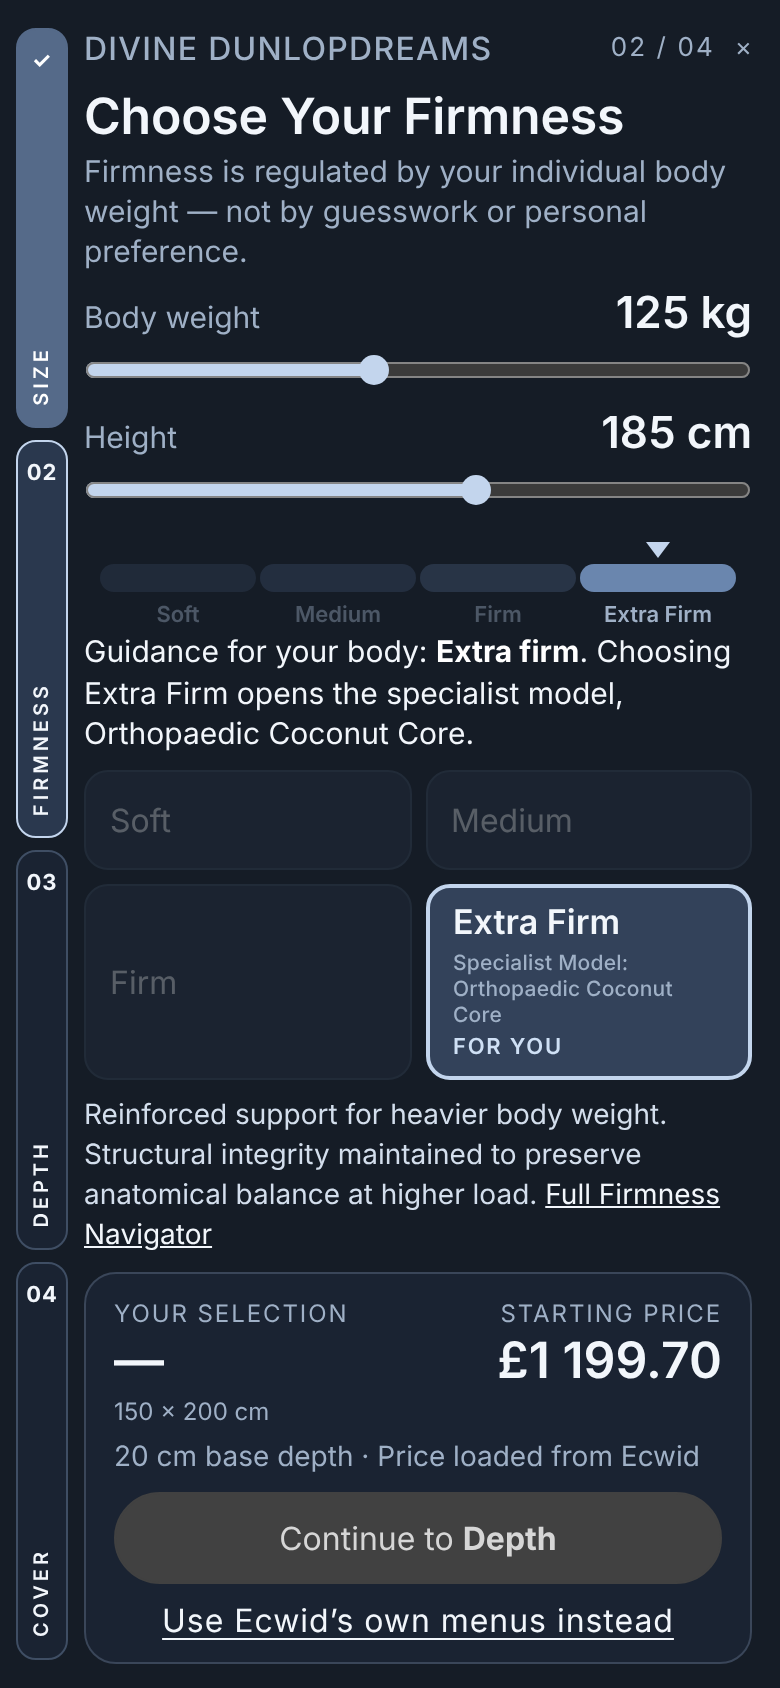
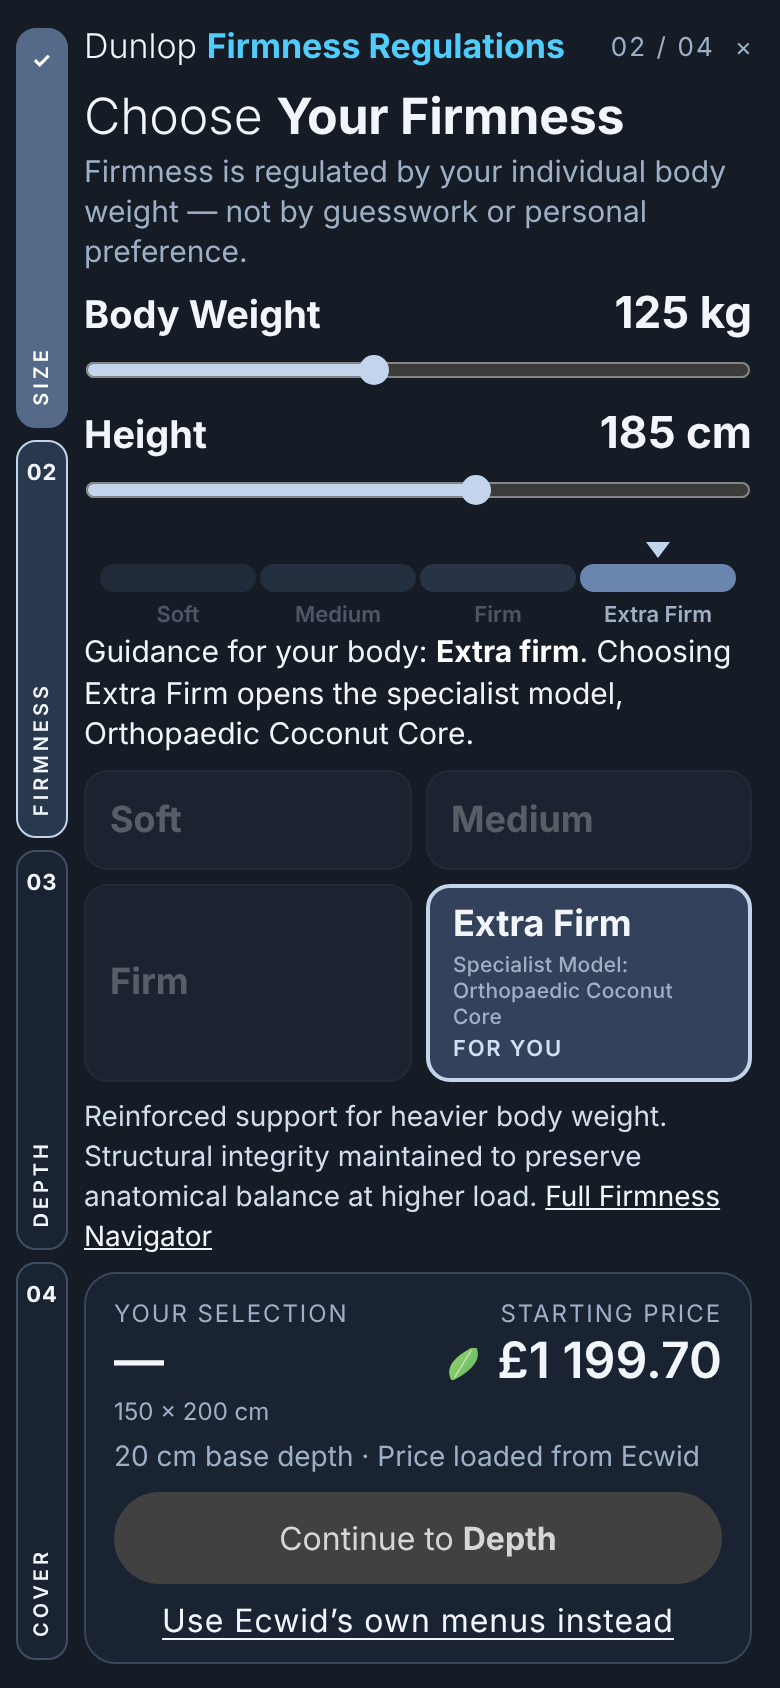
Firmness step typography: Dunlop Firmness Regulations line, bold labels, leaf by price
Claude-Session: https://claude.ai/code/session_012wczzzviEvo3aPrXDTfwk1

diff --git a/experience-tv/docs/mobile/premium/preview/graphite.html b/experience-tv/docs/mobile/premium/preview/graphite.html
@@ -79,6 +79,17 @@
 @media (max-height: 690px) { .gx-sub { display: none; } .gx-chip { height: 28px; font-size: 14px; } .gx-cov { height: 56px; } .gx-mat { max-height: 60px; } .gx-card { min-height: 38px; font-size: 15px; }  .gx-scale { height: 30px; } .gx-card { padding: 6px 10px; } .gx-card .sp-l { font-size: 9.5px; margin-top: 2px; } .gx-guide { margin: 0 0 4px; font-size: 13px; } }
 @media (prefers-reduced-motion: reduce) { .gx * { transition: none !important; } }
 
+/* firmness module: the bolding scenario from the owner's mock-up (this step only) */
+.gx-top b.fr { text-transform: none; letter-spacing: 0; font-size: 17px; font-weight: 300; color: var(--ink); white-space: nowrap; }
+.gx-top b.fr strong { font-weight: 700; color: #50CDFD; }
+.gx h2.fw { font-weight: 300; } .gx h2.fw b { font-weight: 700; }
+.gx-fg .r label { font-size: 19px; font-weight: 700; color: var(--ink); }
+.gx-fg .r b { font-weight: 700; }
+.gx-2 .gx-card { font-weight: 700; font-size: 18px; }
+.gx-sel .lf { width: 22px; height: 16px; vertical-align: -1px; margin-right: 6px; }
+@media (max-height: 780px) { .gx-fg .r label { font-size: 17px; } .gx-2 .gx-card { font-size: 16.5px; } .gx-top b.fr { font-size: 16px; } }
+@media (max-height: 690px) { .gx-fg .r label { font-size: 15.5px; } .gx-2 .gx-card { font-size: 15px; } .gx-top b.fr { font-size: 14.5px; } .gx-sel .lf { width: 18px; height: 13px; } }
+
 /* PREVIEW styles, not deployed. Tokens are the description's own (palette, radii, Chillax). No backdrop-filter, no blur,
    no animation library; transitions are transform/opacity/max-height only and stop under prefers-reduced-motion. */
 :root { --bg: #DDEBF1; --lift: #EDF5F7; --card: #F6FAFB; --deep: #C7D5D9; --ink: #364849; --mid: #4F6365; --soft: #797572; --acc: #759397; --accm: #5E7A7D; --pale: #BFD0D5; --r: 12px; --rl: 18px; --f: 'Chillax', 'Helvetica Neue', Arial, sans-serif; }
@@ -5068,7 +5079,7 @@ var m=document.getElementById('desc-slot'),dsc=document.getElementById('productD
   }
   function bodyFirm() {
     var w0 = S.weight == null ? 70 : S.weight, h0 = S.height == null ? 170 : S.height;
-    return '<div class="gx-fg"><div class="r"><label for="gw">Body weight</label><b id="gwv">' + (S.weight == null ? '—' : S.weight + ' kg') + '</b></div><input id="gw" type="range" min="' + core.limits.weight[0] + '" max="' + core.limits.weight[1] + '" value="' + w0 + '" data-k="weight" aria-label="Body weight in kilograms">' +
+    return '<div class="gx-fg"><div class="r"><label for="gw">Body Weight</label><b id="gwv">' + (S.weight == null ? '—' : S.weight + ' kg') + '</b></div><input id="gw" type="range" min="' + core.limits.weight[0] + '" max="' + core.limits.weight[1] + '" value="' + w0 + '" data-k="weight" aria-label="Body weight in kilograms">' +
       '<div class="r"><label for="gh">Height</label><b id="ghv">' + (S.height == null ? '—' : S.height + ' cm') + '</b></div><input id="gh" type="range" min="' + core.limits.height[0] + '" max="' + core.limits.height[1] + '" value="' + h0 + '" data-k="height" aria-label="Height in centimetres"></div><div id="gdyn">' + firmDyn() + '</div>';
   }
   function bodyDepth() {
@@ -5098,7 +5109,7 @@ var m=document.getElementById('desc-slot'),dsc=document.getElementById('productD
     return h;
   }
   var BODY = { size: bodySize, firmness: bodyFirm, depth: bodyDepth, cover: bodyCover, review: bodyReview };
-  var TITLE = { size: 'Choose Your Size', firmness: 'Choose Your Firmness', depth: 'Choose Your Depth', cover: 'Choose Your Cover', review: 'Review Your <b>Order</b>' };
+  var TITLE = { size: 'Choose Your Size', firmness: 'Choose <b>Your Firmness</b>', depth: 'Choose Your Depth', cover: 'Choose Your Cover', review: 'Review Your <b>Order</b>' };
   function sub() {
     if (S.step === 'size') return (S.sizeCount || 22) + ' dimensions · Custom made to order';
     if (S.step === 'firmness') return first(D.firmness.sub);
@@ -5111,6 +5122,8 @@ var m=document.getElementById('desc-slot'),dsc=document.getElementById('productD
   function rail() {
     return '<nav class="gx-rail" aria-label="Steps">' + STEPS.map(function (s, i) { var dn = chosen(s), cur = S.step === s; return '<button class="pil' + (cur ? ' cur' : '') + (dn ? ' done' : '') + '" data-act="go" data-step="' + s + '" aria-current="' + (cur ? 'step' : 'false') + '" aria-label="' + NAMES[s] + (dn ? ', chosen' : '') + '"><i>' + (dn ? '✓' : '0' + (i + 1)) + '</i><span>' + NAMES[s] + '</span></button>'; }).join('') + '</nav>';
   }
+  /* the header's leaf (divine-hero .ddh__leaf: fresh green, two opposite round corners, one pale vein), as a small static mark */
+  var LEAF = '<svg class="lf" viewBox="0 0 28 20" aria-hidden="true"><defs><linearGradient id="lfg" x1="0" y1="0" x2="1" y2="1"><stop offset="0" stop-color="#9BD26B"/><stop offset="1" stop-color="#63B963"/></linearGradient></defs><g transform="rotate(-28 14 10)"><path d="M2 16C2 7 8 3 26 3C26 12 19 16 2 16Z" fill="url(#lfg)"/><path d="M5 14.5L22 4.6" stroke="#fff" stroke-opacity=".5" stroke-width="1" stroke-linecap="round"/></g></svg>';
   function dock() {
     var n = S.native, st = S.step, rv = st === 'review', cur = rv ? null : chosen(st), size = chosen('size'), only = startingOnly();
     var others = STEPS.filter(function (r) { return r !== st && chosen(r); }).map(label).join(' · ');
@@ -5121,7 +5134,7 @@ var m=document.getElementById('desc-slot'),dsc=document.getElementById('productD
     var cap = only ? '20 cm base depth · Price loaded from Ecwid' : 'Price loaded from Ecwid';
     var nxt = { size: 'Continue to <b>Firmness</b>', firmness: 'Continue to <b>Depth</b>', depth: 'Continue to <b>Cover</b>', cover: 'Review Your <b>Order</b>', review: done() === 4 ? 'Go to <b>Add to Bag</b>' : 'See <b>Ecwid’s options</b>' }[st];
     var dis = !rv && !cur;
-    return '<section class="gx-dock" aria-label="Your selection"><div class="gx-sel"><div><small>' + (rv ? 'Your configuration' : 'Your selection') + '</small><b>' + esc(left) + '</b>' + (others ? '<em>' + esc(others) + '</em>' : '') + '</div><div class="gx-r' + (S.upd ? ' upd' : '') + '"><small>' + pl + '</small><b>' + esc(pv) + '</b></div></div><p class="gx-cap">' + esc(cap) + '</p><button class="gx-btn" data-act="next" aria-disabled="' + dis + '">' + nxt + '</button><button class="gx-alt" data-act="native">Use Ecwid’s own menus instead</button></section>';
+    return '<section class="gx-dock" aria-label="Your selection"><div class="gx-sel"><div><small>' + (rv ? 'Your configuration' : 'Your selection') + '</small><b>' + esc(left) + '</b>' + (others ? '<em>' + esc(others) + '</em>' : '') + '</div><div class="gx-r' + (S.upd ? ' upd' : '') + '"><small>' + pl + '</small><b>' + (st === 'firmness' ? LEAF : '') + esc(pv) + '</b></div></div><p class="gx-cap">' + esc(cap) + '</p><button class="gx-btn" data-act="next" aria-disabled="' + dis + '">' + nxt + '</button><button class="gx-alt" data-act="native">Use Ecwid’s own menus instead</button></section>';
   }
 
   function render() {
@@ -5132,7 +5145,7 @@ var m=document.getElementById('desc-slot'),dsc=document.getElementById('productD
     if (!S.open) { root.innerHTML = ''; root.className = 'cfg'; return; }
     var idx = STEPS.indexOf(S.step), body = d.querySelector('.gx-body'), st = body ? body.scrollTop : 0;
     root.className = 'cfg cfg--gx open';
-    root.innerHTML = '<div class="gx" role="dialog" aria-modal="true" aria-label="Configure your mattress">' + rail() + '<div class="gx-main"><div class="gx-top"><b>Divine DunlopDreams</b><span>' + (S.step === 'review' ? 'Review' : '0' + (idx + 1) + ' / 04') + '<button class="gx-x" data-act="close" aria-label="Close configuration">×</button></span></div><div><h2 tabindex="-1"' + (S.step === 'review' ? ' class="rv"' : '') + '>' + TITLE[S.step] + '</h2><p class="gx-sub">' + esc(sub()) + '</p></div><div class="gx-body">' + BODY[S.step]() + '</div>' + dock() + '</div></div>';
+    root.innerHTML = '<div class="gx" role="dialog" aria-modal="true" aria-label="Configure your mattress">' + rail() + '<div class="gx-main"><div class="gx-top">' + (S.step === 'firmness' ? '<b class="fr">Dunlop <strong>Firmness Regulations</strong></b>' : '<b>Divine DunlopDreams</b>') + '<span>' + (S.step === 'review' ? 'Review' : '0' + (idx + 1) + ' / 04') + '<button class="gx-x" data-act="close" aria-label="Close configuration">×</button></span></div><div><h2 tabindex="-1"' + (S.step === 'review' ? ' class="rv"' : S.step === 'firmness' ? ' class="fw"' : '') + '>' + TITLE[S.step] + '</h2><p class="gx-sub">' + esc(sub()) + '</p></div><div class="gx-body">' + BODY[S.step]() + '</div>' + dock() + '</div></div>';
     var nb = d.querySelector('.gx-body'); if (nb) nb.scrollTop = st;
   }
 

diff --git a/experience-tv/docs/mobile/premium/src/graphite.js b/experience-tv/docs/mobile/premium/src/graphite.js
@@ -73,7 +73,7 @@
   }
   function bodyFirm() {
     var w0 = S.weight == null ? 70 : S.weight, h0 = S.height == null ? 170 : S.height;
-    return '<div class="gx-fg"><div class="r"><label for="gw">Body weight</label><b id="gwv">' + (S.weight == null ? '—' : S.weight + ' kg') + '</b></div><input id="gw" type="range" min="' + core.limits.weight[0] + '" max="' + core.limits.weight[1] + '" value="' + w0 + '" data-k="weight" aria-label="Body weight in kilograms">' +
+    return '<div class="gx-fg"><div class="r"><label for="gw">Body Weight</label><b id="gwv">' + (S.weight == null ? '—' : S.weight + ' kg') + '</b></div><input id="gw" type="range" min="' + core.limits.weight[0] + '" max="' + core.limits.weight[1] + '" value="' + w0 + '" data-k="weight" aria-label="Body weight in kilograms">' +
       '<div class="r"><label for="gh">Height</label><b id="ghv">' + (S.height == null ? '—' : S.height + ' cm') + '</b></div><input id="gh" type="range" min="' + core.limits.height[0] + '" max="' + core.limits.height[1] + '" value="' + h0 + '" data-k="height" aria-label="Height in centimetres"></div><div id="gdyn">' + firmDyn() + '</div>';
   }
   function bodyDepth() {
@@ -103,7 +103,7 @@
     return h;
   }
   var BODY = { size: bodySize, firmness: bodyFirm, depth: bodyDepth, cover: bodyCover, review: bodyReview };
-  var TITLE = { size: 'Choose Your Size', firmness: 'Choose Your Firmness', depth: 'Choose Your Depth', cover: 'Choose Your Cover', review: 'Review Your <b>Order</b>' };
+  var TITLE = { size: 'Choose Your Size', firmness: 'Choose <b>Your Firmness</b>', depth: 'Choose Your Depth', cover: 'Choose Your Cover', review: 'Review Your <b>Order</b>' };
   function sub() {
     if (S.step === 'size') return (S.sizeCount || 22) + ' dimensions · Custom made to order';
     if (S.step === 'firmness') return first(D.firmness.sub);
@@ -116,6 +116,8 @@
   function rail() {
     return '<nav class="gx-rail" aria-label="Steps">' + STEPS.map(function (s, i) { var dn = chosen(s), cur = S.step === s; return '<button class="pil' + (cur ? ' cur' : '') + (dn ? ' done' : '') + '" data-act="go" data-step="' + s + '" aria-current="' + (cur ? 'step' : 'false') + '" aria-label="' + NAMES[s] + (dn ? ', chosen' : '') + '"><i>' + (dn ? '✓' : '0' + (i + 1)) + '</i><span>' + NAMES[s] + '</span></button>'; }).join('') + '</nav>';
   }
+  /* the header's leaf (divine-hero .ddh__leaf: fresh green, two opposite round corners, one pale vein), as a small static mark */
+  var LEAF = '<svg class="lf" viewBox="0 0 28 20" aria-hidden="true"><defs><linearGradient id="lfg" x1="0" y1="0" x2="1" y2="1"><stop offset="0" stop-color="#9BD26B"/><stop offset="1" stop-color="#63B963"/></linearGradient></defs><g transform="rotate(-28 14 10)"><path d="M2 16C2 7 8 3 26 3C26 12 19 16 2 16Z" fill="url(#lfg)"/><path d="M5 14.5L22 4.6" stroke="#fff" stroke-opacity=".5" stroke-width="1" stroke-linecap="round"/></g></svg>';
   function dock() {
     var n = S.native, st = S.step, rv = st === 'review', cur = rv ? null : chosen(st), size = chosen('size'), only = startingOnly();
     var others = STEPS.filter(function (r) { return r !== st && chosen(r); }).map(label).join(' · ');
@@ -126,7 +128,7 @@
     var cap = only ? '20 cm base depth · Price loaded from Ecwid' : 'Price loaded from Ecwid';
     var nxt = { size: 'Continue to <b>Firmness</b>', firmness: 'Continue to <b>Depth</b>', depth: 'Continue to <b>Cover</b>', cover: 'Review Your <b>Order</b>', review: done() === 4 ? 'Go to <b>Add to Bag</b>' : 'See <b>Ecwid’s options</b>' }[st];
     var dis = !rv && !cur;
-    return '<section class="gx-dock" aria-label="Your selection"><div class="gx-sel"><div><small>' + (rv ? 'Your configuration' : 'Your selection') + '</small><b>' + esc(left) + '</b>' + (others ? '<em>' + esc(others) + '</em>' : '') + '</div><div class="gx-r' + (S.upd ? ' upd' : '') + '"><small>' + pl + '</small><b>' + esc(pv) + '</b></div></div><p class="gx-cap">' + esc(cap) + '</p><button class="gx-btn" data-act="next" aria-disabled="' + dis + '">' + nxt + '</button><button class="gx-alt" data-act="native">Use Ecwid’s own menus instead</button></section>';
+    return '<section class="gx-dock" aria-label="Your selection"><div class="gx-sel"><div><small>' + (rv ? 'Your configuration' : 'Your selection') + '</small><b>' + esc(left) + '</b>' + (others ? '<em>' + esc(others) + '</em>' : '') + '</div><div class="gx-r' + (S.upd ? ' upd' : '') + '"><small>' + pl + '</small><b>' + (st === 'firmness' ? LEAF : '') + esc(pv) + '</b></div></div><p class="gx-cap">' + esc(cap) + '</p><button class="gx-btn" data-act="next" aria-disabled="' + dis + '">' + nxt + '</button><button class="gx-alt" data-act="native">Use Ecwid’s own menus instead</button></section>';
   }
 
   function render() {
@@ -137,7 +139,7 @@
     if (!S.open) { root.innerHTML = ''; root.className = 'cfg'; return; }
     var idx = STEPS.indexOf(S.step), body = d.querySelector('.gx-body'), st = body ? body.scrollTop : 0;
     root.className = 'cfg cfg--gx open';
-    root.innerHTML = '<div class="gx" role="dialog" aria-modal="true" aria-label="Configure your mattress">' + rail() + '<div class="gx-main"><div class="gx-top"><b>Divine DunlopDreams</b><span>' + (S.step === 'review' ? 'Review' : '0' + (idx + 1) + ' / 04') + '<button class="gx-x" data-act="close" aria-label="Close configuration">×</button></span></div><div><h2 tabindex="-1"' + (S.step === 'review' ? ' class="rv"' : '') + '>' + TITLE[S.step] + '</h2><p class="gx-sub">' + esc(sub()) + '</p></div><div class="gx-body">' + BODY[S.step]() + '</div>' + dock() + '</div></div>';
+    root.innerHTML = '<div class="gx" role="dialog" aria-modal="true" aria-label="Configure your mattress">' + rail() + '<div class="gx-main"><div class="gx-top">' + (S.step === 'firmness' ? '<b class="fr">Dunlop <strong>Firmness Regulations</strong></b>' : '<b>Divine DunlopDreams</b>') + '<span>' + (S.step === 'review' ? 'Review' : '0' + (idx + 1) + ' / 04') + '<button class="gx-x" data-act="close" aria-label="Close configuration">×</button></span></div><div><h2 tabindex="-1"' + (S.step === 'review' ? ' class="rv"' : S.step === 'firmness' ? ' class="fw"' : '') + '>' + TITLE[S.step] + '</h2><p class="gx-sub">' + esc(sub()) + '</p></div><div class="gx-body">' + BODY[S.step]() + '</div>' + dock() + '</div></div>';
     var nb = d.querySelector('.gx-body'); if (nb) nb.scrollTop = st;
   }
 

diff --git a/experience-tv/docs/mobile/premium/src/graphite.css b/experience-tv/docs/mobile/premium/src/graphite.css
@@ -77,3 +77,14 @@
 @media (max-height: 730px) { .gx-cap { display: none; } .gx-chip { height: 30px; } .gx-scale { height: 36px; } }
 @media (max-height: 690px) { .gx-sub { display: none; } .gx-chip { height: 28px; font-size: 14px; } .gx-cov { height: 56px; } .gx-mat { max-height: 60px; } .gx-card { min-height: 38px; font-size: 15px; }  .gx-scale { height: 30px; } .gx-card { padding: 6px 10px; } .gx-card .sp-l { font-size: 9.5px; margin-top: 2px; } .gx-guide { margin: 0 0 4px; font-size: 13px; } }
 @media (prefers-reduced-motion: reduce) { .gx * { transition: none !important; } }
+
+/* firmness module: the bolding scenario from the owner's mock-up (this step only) */
+.gx-top b.fr { text-transform: none; letter-spacing: 0; font-size: 17px; font-weight: 300; color: var(--ink); white-space: nowrap; }
+.gx-top b.fr strong { font-weight: 700; color: #50CDFD; }
+.gx h2.fw { font-weight: 300; } .gx h2.fw b { font-weight: 700; }
+.gx-fg .r label { font-size: 19px; font-weight: 700; color: var(--ink); }
+.gx-fg .r b { font-weight: 700; }
+.gx-2 .gx-card { font-weight: 700; font-size: 18px; }
+.gx-sel .lf { width: 22px; height: 16px; vertical-align: -1px; margin-right: 6px; }
+@media (max-height: 780px) { .gx-fg .r label { font-size: 17px; } .gx-2 .gx-card { font-size: 16.5px; } .gx-top b.fr { font-size: 16px; } }
+@media (max-height: 690px) { .gx-fg .r label { font-size: 15.5px; } .gx-2 .gx-card { font-size: 15px; } .gx-top b.fr { font-size: 14.5px; } .gx-sel .lf { width: 18px; height: 13px; } }
